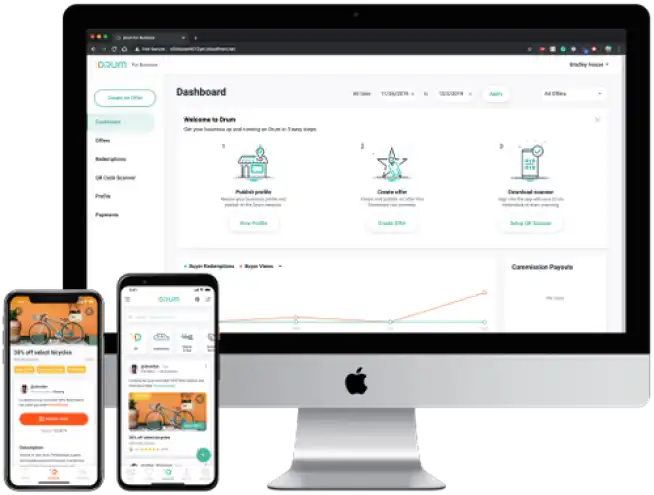
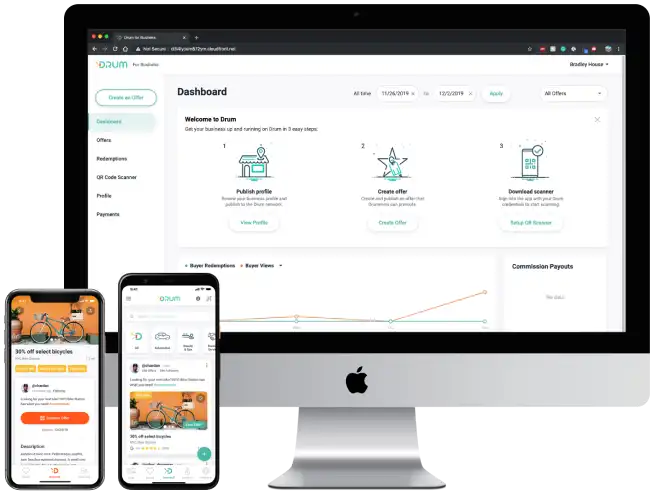
fix: displays images with incorrect aspect ratio for Drum page

diff --git a/case-study/drum.html b/case-study/drum.html
@@ -50,7 +50,7 @@
           </div>
         </div>
         <picture data-w-id="e96889f9-81d3-8bcc-3444-f073233b7b74" class="case-study-mobile-hero-right-column drum-cast-study-mobile-hero-right-column w-col w-col-6">
-          <source loading="lazy" media="(max-width: 479px)" width="327px" height="247px" srcset="../images/case-study/drum/webp/drum-dashboard-mobile.webp 1x, ../images/case-study/drum/webp/drum-dashboard-mobile-2x.webp 2x" type="image/webp">
+          <source loading="lazy" media="(max-width: 479px)" width="312px" height="236px" srcset="../images/case-study/drum/webp/drum-dashboard-mobile.webp 1x, ../images/case-study/drum/webp/drum-dashboard-mobile-2x.webp 2x" type="image/webp">
           <source media="(min-width: 480px)" srcset="../images/case-study/drum/webp/drum-dashboard-p-800.webp 1080w" type="image/webp">
           <img src="../images/drum-dashboard.png" alt="Screenshot of Drum website and mobile app user dashboard" srcset="../images/case-study/drum/png/drum-dashboard-p-500.png 500w, ../images/case-study/drum/png/drum-dashboard-p-800.png 800w, ../images/case-study/drum/png/drum-dashboard-p-1080.png 1080w, ../images/case-study/drum/png/drum-dashboard.png 1563w" sizes="(max-width: 479px) 90vw, (max-width: 991px) 94vw, 60vw" class="mobile-case-study-hero-image drum-hero">
         </picture>
@@ -88,7 +88,7 @@
         <img width="100%" height="100%" loading="lazy" src="../images/case-study/drum/drum-collection-6.jpg" alt="Screenshot of final UX/UI design for Drum mobile app, designed and developed by AgilityIO" srcset="../images/case-study/drum/drum-collection-6-p-500.jpeg 500w, ../images/case-study/drum/drum-collection-6.jpg 750w" sizes="(max-width: 479px) 90vw, (max-width: 767px) 94vw, (max-width: 991px) 95vw, 100vw" id="w-node-0846c23b4823-7da1d925" data-w-id="87f7f6e3-6ee4-5a9d-e808-0846c23b4823" class="ux-screen bottom-row">
         <img width="100%" height="100%" loading="lazy" src="../images/case-study/drum/drum-collection-7.jpg" alt="Screenshot of final UX/UI design for Drum mobile app, designed and developed by AgilityIO" srcset="../images/case-study/drum/drum-collection-7-p-500.jpeg 500w, ../images/case-study/drum/drum-collection-7.jpg 750w" sizes="(max-width: 479px) 90vw, (max-width: 767px) 94vw, (max-width: 991px) 95vw, 100vw" id="w-node-0846c23b4824-7da1d925" data-w-id="87f7f6e3-6ee4-5a9d-e808-0846c23b4824" class="ux-screen bottom-row">
         <img width="100%" height="100%" loading="lazy" src="../images/case-study/drum/drum-collection-8.jpg" alt="Screenshot of final UX/UI design for Drum mobile app, designed and developed by AgilityIO" srcset="../images/case-study/drum/drum-collection-8-p-500.jpeg 500w, ../images/case-study/drum/drum-collection-8.jpg 750w" sizes="(max-width: 479px) 90vw, (max-width: 767px) 94vw, (max-width: 991px) 95vw, 100vw" id="w-node-0846c23b4825-7da1d925" data-w-id="87f7f6e3-6ee4-5a9d-e808-0846c23b4825" class="ux-screen bottom-row"></div>
-        <img width="100%" height="100%" loading="lazy" src="../images/case-study/drum/triangle-gradien.svg" data-w-id="c4cceaa9-d249-6602-417e-3686be4d32ba" alt="" class="defer-transform-triangle triangle-gradient drum-triangle-gradient">
+        <img width="100%" height="100%" loading="lazy" src="../images/case-study/drum/triangle-gradient.svg" data-w-id="c4cceaa9-d249-6602-417e-3686be4d32ba" alt="" class="defer-transform-triangle triangle-gradient drum-triangle-gradient">
       </div>
   </div>
   <div class="app-design-and-features-section drum-app-design-and-features-section">
@@ -100,7 +100,7 @@
         </div>
         <div class="feature-1-right-column bookdoc-feature-1-right-column w-col w-col-6">
           <picture data-w-id="e96889f9-81d3-8bcc-3444-f073233b7b74" class="case-study-mobile-hero-right-column drum-cast-study-mobile-hero-right-column w-col w-col-6">
-            <source loading="lazy" media="(max-width: 479px)" width="327px" height="247px" srcset="../images/case-study/drum/webp/brands-mobile.webp 1x, ../images/case-study/drum/webp/brands-mobile-2x.webp 2x" type="image/webp">
+            <source loading="lazy" media="(max-width: 479px)" width="100%" height="100%" srcset="../images/case-study/drum/webp/brands-mobile.webp 1x, ../images/case-study/drum/webp/brands-mobile-2x.webp 2x" type="image/webp">
             <source media="(min-width: 480px)" srcset="../images/case-study/drum/webp/brands-p-800.webp 1080w" type="image/webp">
             <img src="../images/case-study/drum/brands.jpg" alt="Screenshot of final UX/UI design for Drum mobile app, designed and developed by AgilityIO" srcset="../images/case-study/drum/brands-p-800.jpeg 800w, ../images/case-study/drum/brands-p-1080.jpeg 1080w, ../images/case-study/drum/brands-p-1600.jpeg 1600w, ../images/case-study/drum/brands.jpg 1648w" sizes="(max-width: 479px) 90vw, (max-width: 991px) 94vw, 75vw" class="feature-1-image drum-feature-1-image">
           </picture>
@@ -121,7 +121,7 @@
         </div>
         <div class="feature-3-right-column drum-feature-3-right-column w-col w-col-6">
           <picture>
-            <source loading="lazy" media="(max-width: 479px)" width="327px" height="247px" srcset="../images/case-study/drum/webp/buyers-mobile.webp 1x, ../images/case-study/drum/webp/buyers-mobile-2x.webp 2x" type="image/webp">
+            <source loading="lazy" media="(max-width: 479px)" width="100%" height="100%" srcset="../images/case-study/drum/webp/buyers-mobile.webp 1x, ../images/case-study/drum/webp/buyers-mobile-2x.webp 2x" type="image/webp">
             <source media="(min-width: 480px)" srcset="../images/case-study/drum/webp/buyers-p-800.webp 1080w" type="image/webp">
             <img loading="lazy" src="../images/case-study/drum/buyers.jpg" alt="Screenshot of Drum mobile app screen designed and developed by AgilityIO" srcset="../images/case-study/drum/buyers-p-500.jpeg 500w, ../images/case-study/drum/buyers-p-800.jpeg 800w, ../images/Buyers-p-1080.jpeg 1080w, ../images/case-study/drum/buyers.jpg 1172w" sizes="(max-width: 479px) 63vw, (max-width: 991px) 66vw, 50vw" class="feature-3-image-1 drum-feature-3-image-1">
           </picture>
@@ -233,8 +233,7 @@
       </div>
     </div>
   </div>
-  <script defer src="https://d3e54v103j8qbb.cloudfront.net/js/jquery-3.4.1.min.220afd743d.js" type="text/javascript" integrity="sha256-CSXorXvZcTkaix6Yvo6HppcZGetbYMGWSFlBw8HfCJo=" crossorigin="anonymous"></script>
-  <script defer src="../js/webflow.js" type="text/javascript"></script>
+  <script src="https://code.jquery.com/jquery-3.6.3.min.js" integrity="sha256-pvPw+upLPUjgMXY0G+8O0xUf+/Im1MZjXxxgOcBQBXU=" crossorigin="anonymous"></script>  <script defer src="../js/webflow.js" type="text/javascript"></script>
   <!-- [if lte IE 9]><script src="https://cdnjs.cloudflare.com/ajax/libs/placeholders/3.0.2/placeholders.min.js"></script><![endif] -->
   <script defer type="text/javascript" src="/js/cookiesconsent.js" charset="UTF-8"></script>
   <script defer type="text/javascript" src="/js/cookieconsent-init.js"></script>
